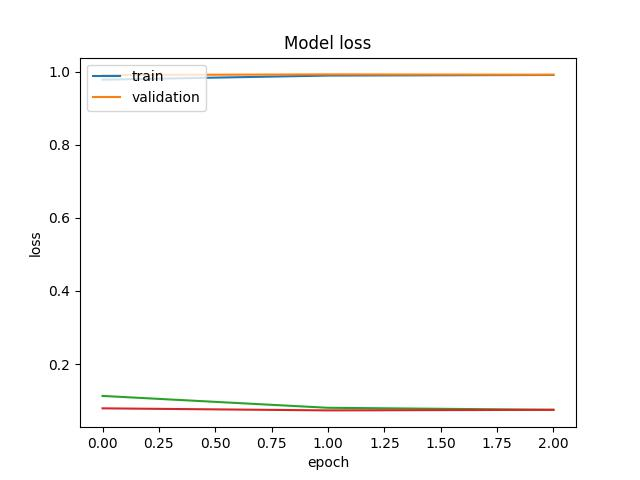
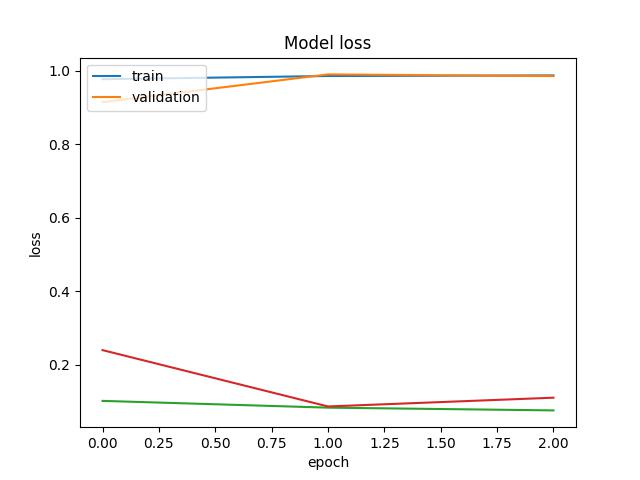
refined model with class weights

diff --git a/src/data_preprocess.py b/src/data_preprocess.py
@@ -14,7 +14,31 @@ max_seq_length = params["sequence_len"]
 embedding_dim = params["embedding_dim"]
 
 
-def data_preprocess(data, do_load_existing_tokenizer=False):
+def tokenization(data, name="train"):
+
+    tokenizer = Tokenizer(num_words=vocab_size)
+    tokenizer.fit_on_texts(data)
+    # -------------------------------------------------------------------------
+    list_tokenized_train = tokenizer.texts_to_sequences(data)
+    print('Data Tokenized to Sequences')
+    # -------------------------------------------------------------------------
+    word_index = tokenizer.word_index
+    print(f'Found {len(word_index)} unique tokens')
+    # -------------------------------------------------------------------------
+    print('Saving tokens ...')
+    with open(TOKENIZER_LOCATION, 'wb') as handle:
+        pickle.dump(tokenizer, handle, protocol=pickle.HIGHEST_PROTOCOL)
+    # -------------------------------------------------------------------------
+    x_tr = pad_sequences(list_tokenized_train, maxlen=max_seq_length, padding='post')
+    np.save(f"data/processed_data/x_{name}_tokens.npy", x_tr)
+
+    f = open("data/word_index.txt", "w")
+    integer = len(word_index)
+    f.write(str(integer))
+    f.close()
+
+
+def fast_text_embeddings():
     embeddings_index_fasttext = {}
     with open(EMBEDDING_FILE_LOCATION, encoding='utf-8') as f:
         for line in f:
@@ -24,28 +48,10 @@ def data_preprocess(data, do_load_existing_tokenizer=False):
 
     print(f'Total of {len(embeddings_index_fasttext)} word vectors are found.')
 
-    if not do_load_existing_tokenizer:
-        tokenizer = Tokenizer(num_words=vocab_size)
-        tokenizer.fit_on_texts(data)
-    else:
-        with open(TOKENIZER_LOCATION, 'rb') as handle:
-            tokenizer = pickle.load(handle)
-    print('Data Tokenized-1')
-    # -------------------------------------------------------------------------
-    list_tokenized_train = tokenizer.texts_to_sequences(data)
-    print('Data Tokenized-2')
-    # -------------------------------------------------------------------------
-    word_index = tokenizer.word_index
-    print(f'Found {len(word_index)} unique tokens')
-    # -------------------------------------------------------------------------
-    if not do_load_existing_tokenizer:
-        print('Saving tokens ...')
-        with open(TOKENIZER_LOCATION, 'wb') as handle:
-            pickle.dump(tokenizer, handle, protocol=pickle.HIGHEST_PROTOCOL)
-    # -------------------------------------------------------------------------
-    x_tr = pad_sequences(list_tokenized_train, maxlen=max_seq_length, padding='post')
-    print('Shape of Data Tensor:', x_tr)
-    # -------------------------------------------------------------------------
+    with open(TOKENIZER_LOCATION, 'rb') as handle:
+        tokenizer_model = pickle.load(handle)
+
+    word_index = tokenizer_model.word_index
     embedding_matrix_fasttext = np.random.random((len(word_index) + 1, embedding_dim))
     for word, i in word_index.items():
         embedding_vector = embeddings_index_fasttext.get(word)
@@ -53,13 +59,11 @@ def data_preprocess(data, do_load_existing_tokenizer=False):
             embedding_matrix_fasttext[i] = embedding_vector
     print("Completed! Embedding Matrix")
     np.save("data/embedding_matrix.npy", embedding_matrix_fasttext)
-    # -------------------------------------------------------------------------
-    return len(word_index), x_tr
 
 
 if __name__ == '__main__':
-    x_t = np.load("data/processed_data/x_train.npy", allow_pickle=True)
-    data_preprocess(x_t)
-
+    x_train = np.load("data/processed_data/x_train.npy", allow_pickle=True)
+    tokenization(x_train)
+    fast_text_embeddings()
 
 

diff --git a/src/model_training.py b/src/model_training.py
@@ -8,7 +8,6 @@ from keras.models import Model
 from keras.callbacks import EarlyStopping
 from tensorflow.keras.optimizers import Adam
 from config import *
-from data_preprocess import data_preprocess
 import yaml
 
 
@@ -22,16 +21,20 @@ batch_size = params2["batch_size"]
 epochs = params2["epochs"]
 val_split = params2["val_split"]
 # -------------------------------------------------------------------------
-# class_weight = {0: 0.1590, 1: 1.4905, 2: 2.6980, 3: 2.8939, 4: 14.2920, 5: 16.2248, 6: 47.69}
+class_weight = {0: 1.4905, 1: 2.6980, 2: 2.8939, 3: 14.2920, 4: 16.2248, 5: 47.69, 6: 0.1590}
 
 
-def build_lstm_model(data, target_classes, embeddings, word_index):
+def build_lstm_model(data, target_classes, embeddings):
+    f = open("data/word_index.txt", "r")
+    word_index = int(f.readlines()[0])
+    f.close()
+
     inp = Input(shape=(max_seq_length,), dtype='int32')
     embedded_sequences = Embedding(word_index+1, embedding_dim, weights=[embeddings],
                                    input_length=max_seq_length,
                                    trainable=False,
-                                   name='embeddings')(inp)
-    x = Bidirectional(LSTM(40, return_sequences=True, name='bilstm_layer'))(embedded_sequences)
+                                   name='fast_embeddings')(inp)
+    x = Bidirectional(LSTM(40, return_sequences=True, name='BiLstm_layer'))(embedded_sequences)
     x = GlobalMaxPool1D()(x)
     x = Dropout(0.1)(x)
     x = Dense(20, activation="relu", kernel_initializer='he_uniform')(x)
@@ -49,18 +52,16 @@ def build_lstm_model(data, target_classes, embeddings, word_index):
     # -------------------------------------------------------------------------
     history = model.fit(data,
                         target_classes,
+                        class_weight=class_weight,
                         batch_size=batch_size,
                         epochs=epochs,
                         validation_split=val_split,
                         callbacks=[early_stopping],
                         verbose=1)
-    # -------------------------------------------------------------------------
     model.save(MODEL_LOCATION)
-    # -------------------------------------------------------------------------
     return model, history
 
 
-# -------------------------------------------------------------------------
 def plot_training_history(history):
     # "Accuracy"
     plt.plot(history.history['auc'])
@@ -82,12 +83,11 @@ def plot_training_history(history):
 
 
 def execute():
-    x_train = np.load("data/processed_data/x_train.npy", allow_pickle=True)
-    ind, data = data_preprocess(x_train)
+    x_train = np.load("data/processed_data/x_train_tokens.npy", allow_pickle=True)
     target_classes = np.load("data/processed_data/y_train.npy")
     embeddings = np.load("data/embedding_matrix.npy")
 
-    lstm_model, history = build_lstm_model(data, target_classes, embeddings, ind)
+    lstm_model, history = build_lstm_model(x_train, target_classes, embeddings)
     plot_training_history(history)
 
 

diff --git a/src/model_evaluation.py b/src/model_evaluation.py
@@ -1,11 +1,11 @@
 import numpy as np
 from keras.models import load_model
-from data_preprocess import data_preprocess
+from data_preprocess import tokenization
 import json
 
 
-def evaluate(model, x_test, y_truth):
-    score = model.evaluate(x_test, y_truth, verbose=1)
+def evaluate(model, x, y):
+    score = model.evaluate(x, y, verbose=1, batch_size=32)
     print("Test Score:", score[0])
     print("Test AUC:", score[1])
     with open("scores.json", "w") as fd:
@@ -14,8 +14,9 @@ def evaluate(model, x_test, y_truth):
 
 if __name__ == '__main__':
     lstm_model = load_model("models/toxicity_classifier.h5")
-    x_t = np.load("data/processed_data/x_test.npy", allow_pickle=True)
-    ind, x_te = data_preprocess(x_t)
-    y_target = np.load("data/processed_data/y_test.npy", allow_pickle=True)
-    evaluate(lstm_model, x_te, y_target)
+    x_te = np.load("data/processed_data/x_test.npy", allow_pickle=True)
+    tokenization(x_te, name="test")
+    x_test = np.load("data/processed_data/x_test_tokens.npy", allow_pickle=True)
+    y_test = np.load("data/processed_data/y_test.npy", allow_pickle=True)
+    evaluate(lstm_model, x_test, y_test)
 

diff --git a/app/main.py b/app/main.py
@@ -80,10 +80,15 @@ def comment_request(company: str, comment: str, start: datetime = time, lang: Op
                            headers={'Content-Type': 'application/json'})
 
     response = result.json()
+    if response["Neutral"] > 0.5:
+        toxic = False
+    else:
+        toxic = True
+
     return {
         "company": company,
         "message": comment,
-        "is_toxic": response["Neutral"],
+        "is_toxic": toxic,
         "time": start,
         "language": lang,
         "toxicity_levels": {
@@ -111,7 +116,7 @@ def predict(comment: Toxicity):
     sequences = tokenizer.texts_to_sequences(input_comment)
     sequences = [[item for sublist in sequences for item in sublist]]
 
-    padded_data = pad_sequences(sequences, maxlen=200)
+    padded_data = pad_sequences(sequences, maxlen=150)
     result = model.predict(padded_data, len(padded_data), verbose=1)
 
     return {
